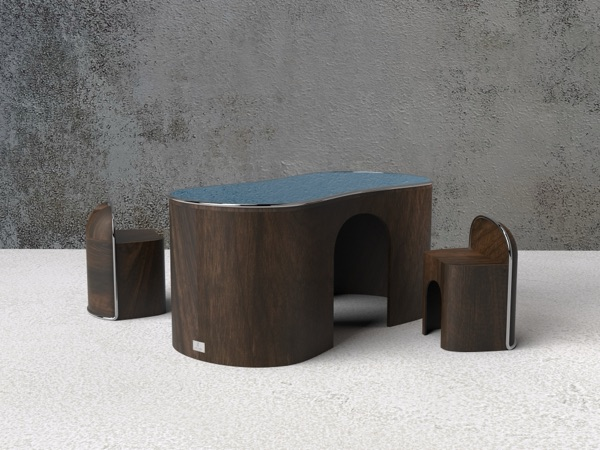
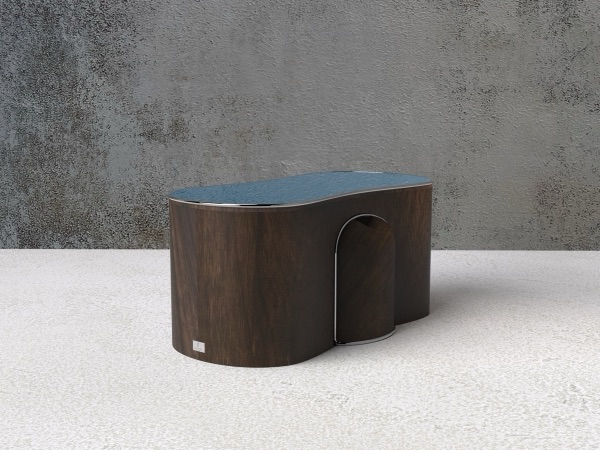
Update product photos and fix motion polish issues
- Agave chair: swap in Figma's extended-canvas renders (before/turned)
  so the mint vector clears the chair instead of covering it; box
  sizing switched from width-driven to height-driven to show the full
  extended width without cropping it away
- Mermaid hanger: swap in higher-quality render
- High heel table and chairs: default now shows chairs tucked in
  (matches the rail-hover thumbnail), hover-turn reveals chairs pulled
  out - previously reversed
- Rail-hover thumbnail now hides as soon as its detail page opens,
  instead of lingering on top of it until the cursor moves

Changed region(s): [[0.54, 0.4667, 1.0, 0.8089], [0.12, 0.4356, 0.3, 0.7156]]

diff --git a/style.css b/style.css
@@ -129,6 +129,14 @@ body {
   left: 87.1675%;
 }
 
+/* Agave chair's photo has the chair sitting closer to the frame's right
+   edge than the lamp/mermaid photos do, so the shared 87.1675% overlap
+   was creeping onto the chair itself - nudge a bit further right just
+   for this page to clear it. */
+.hero__content[data-detail="2"] .hero__mint--right {
+  left: 97%;
+}
+
 /* Horizontal-photo pages (01, 04 - see .hero__detail-photo--horizontal
    below) are full window height, so they're much wider than the vertical
    pages (02/03/05) - the mint piece slides further right than the shared
@@ -367,6 +375,17 @@ body {
   opacity: 1;
 }
 
+/* Once a detail page opens, the hover-triggered thumbnail has to
+   disappear even if the cursor never moved off the number that opened
+   it - otherwise it just sits there on top of the new page. :hover is
+   still literally true in that case, so this needs more specificity
+   than the :hover rules above to win (5 selector components vs. their
+   4), not just source order. */
+.hero__content[data-detail] .hero__rail-item:hover + .hero__rail-preview,
+.hero__content[data-detail] .hero__rail-item:focus-visible + .hero__rail-preview {
+  opacity: 0;
+}
+
 .hero__rail-preview[data-n="1"] {
   top: 2.9102%;
   left: 61.8785%;
@@ -426,6 +445,24 @@ body {
   aspect-ratio: 3072 / 4096;
   object-fit: cover;
   z-index: 1;
+}
+
+/* Agave's photos (750:233 in Figma) were re-exported with the canvas
+   extended rightward specifically so the mint-right overlap lands on
+   background instead of the chair - their aspect ratio is now much
+   closer to square (~3821:3651) than the shared 3072:4096 portrait
+   photos. Height-driven instead of width-driven so the extra width
+   shows in full instead of being cropped away by object-fit:cover:
+   height is set to what the old width-driven box used to compute
+   (107.83% of content height, keeping the same vertical framing/bleed),
+   and width is left to auto-compute from that height via aspect-ratio,
+   growing rightward from the same left edge. */
+.hero__detail[data-n="2"] .hero__detail-photo {
+  top: -2.3438%;
+  left: 9.72%;
+  width: auto;
+  height: 107.83%;
+  aspect-ratio: 3821 / 3651;
 }
 
 /* Stacked exactly on the base photo; fades in on top of it when the

diff --git a/index.html b/index.html
@@ -91,7 +91,7 @@
 
         <div class="hero__detail" data-n="3">
           <h2 class="hero__detail-title" tabindex="0">mermaid hanger</h2>
-          <img class="hero__detail-photo" src="assets/preview-03-mermaid.jpg" alt="Mermaid hanger" />
+          <img class="hero__detail-photo" src="assets/detail-03-mermaid.jpg" alt="Mermaid hanger" />
         </div>
 
         <div class="hero__detail" data-n="4">
